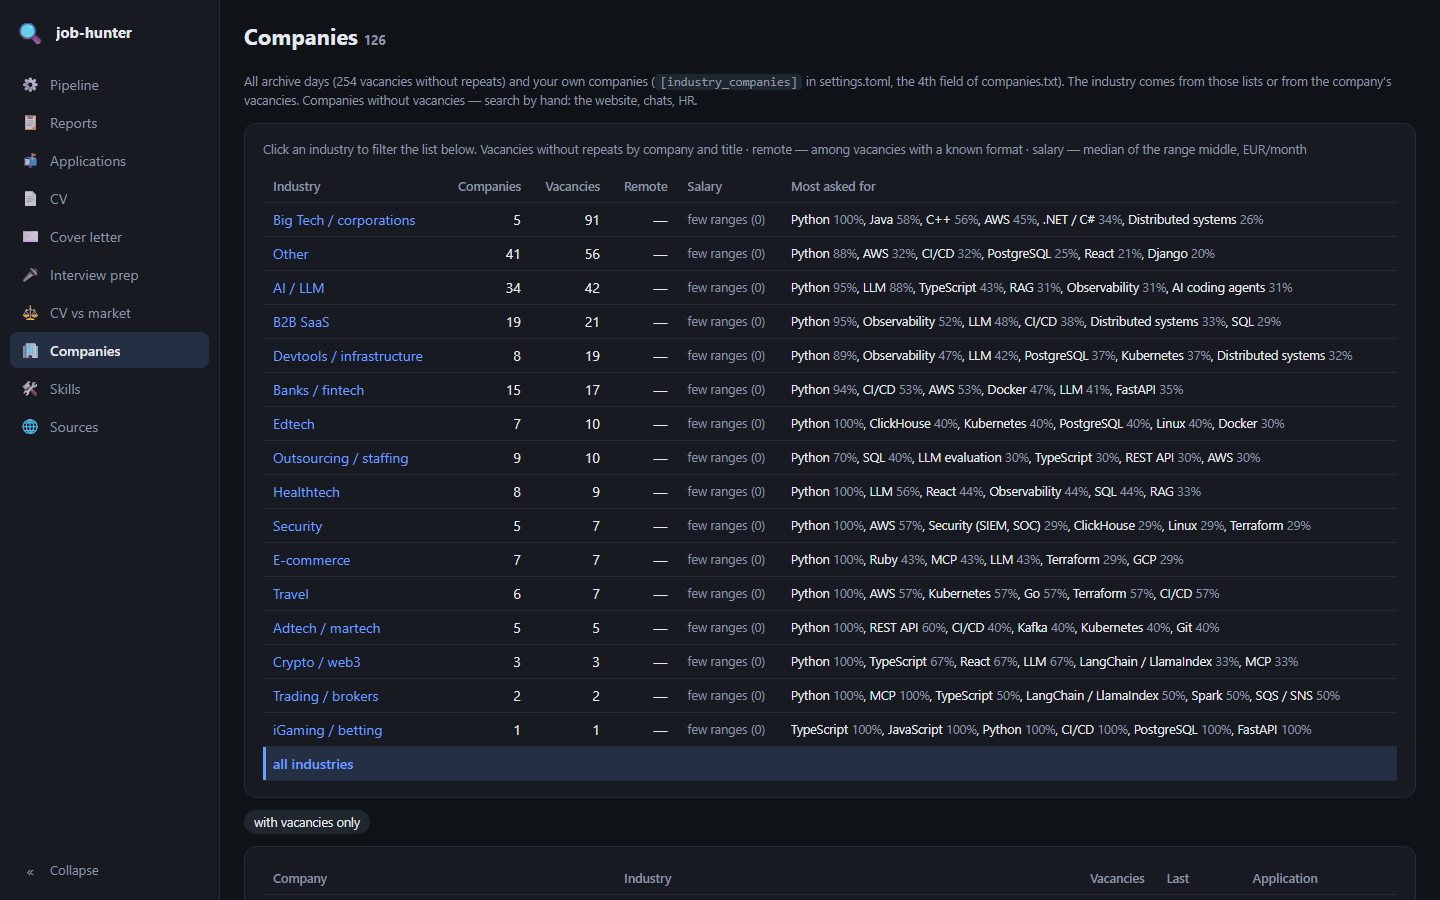
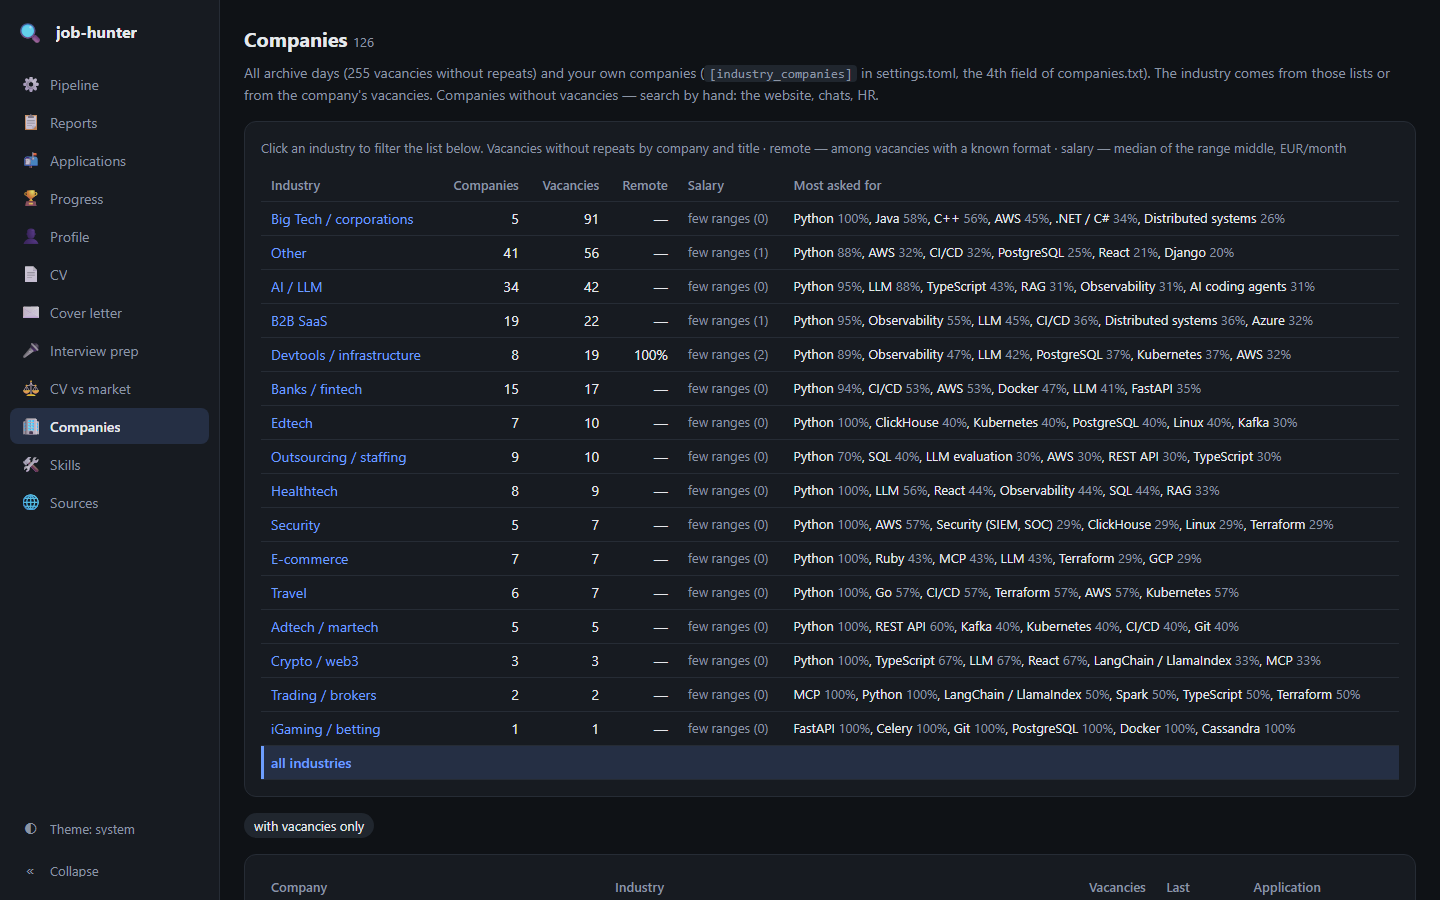
Screenshots: all pages retaken on demo data, Progress and Profile added
- docs/img: all 12 pages after the design system, the Progress page and the Profile page; demo data only —
  public vacancies from a short run, made-up applications, the Jane Doe example CV
- README: Progress and Profile in the screenshot table

diff --git a/README.md b/README.md
@@ -52,8 +52,10 @@ Screenshots are taken on demo data: vacancies are public, applications and the C
 |---|---|
 | ![Pipeline](docs/img/pipeline.png) | ![Report](docs/img/reports.png) |
 | Pipeline: a live run by stages | Report: vacancies with score, Fit % and filters |
-| ![Applications](docs/img/applications.png) | ![CV](docs/img/cv.png) |
-| Applications: statuses from mail and manual events | A CV for a vacancy and why each bullet was picked |
+| ![Applications](docs/img/applications.png) | ![Progress](docs/img/progress.png) |
+| Applications: statuses from mail and manual events, the funnel on top | Progress: rank, streak, the next step of the week, wins and badges |
+| ![Profile](docs/img/profile.png) | ![CV](docs/img/cv.png) |
+| Profile: the CV base edited from the browser | A CV for a vacancy and why each bullet was picked |
 | ![Interview prep](docs/img/prep.png) | ![CV vs market](docs/img/market.png) |
 | Interview preparation | CV vs market |
 | ![Skills](docs/img/skills.png) | ![Sources](docs/img/sources.png) |
